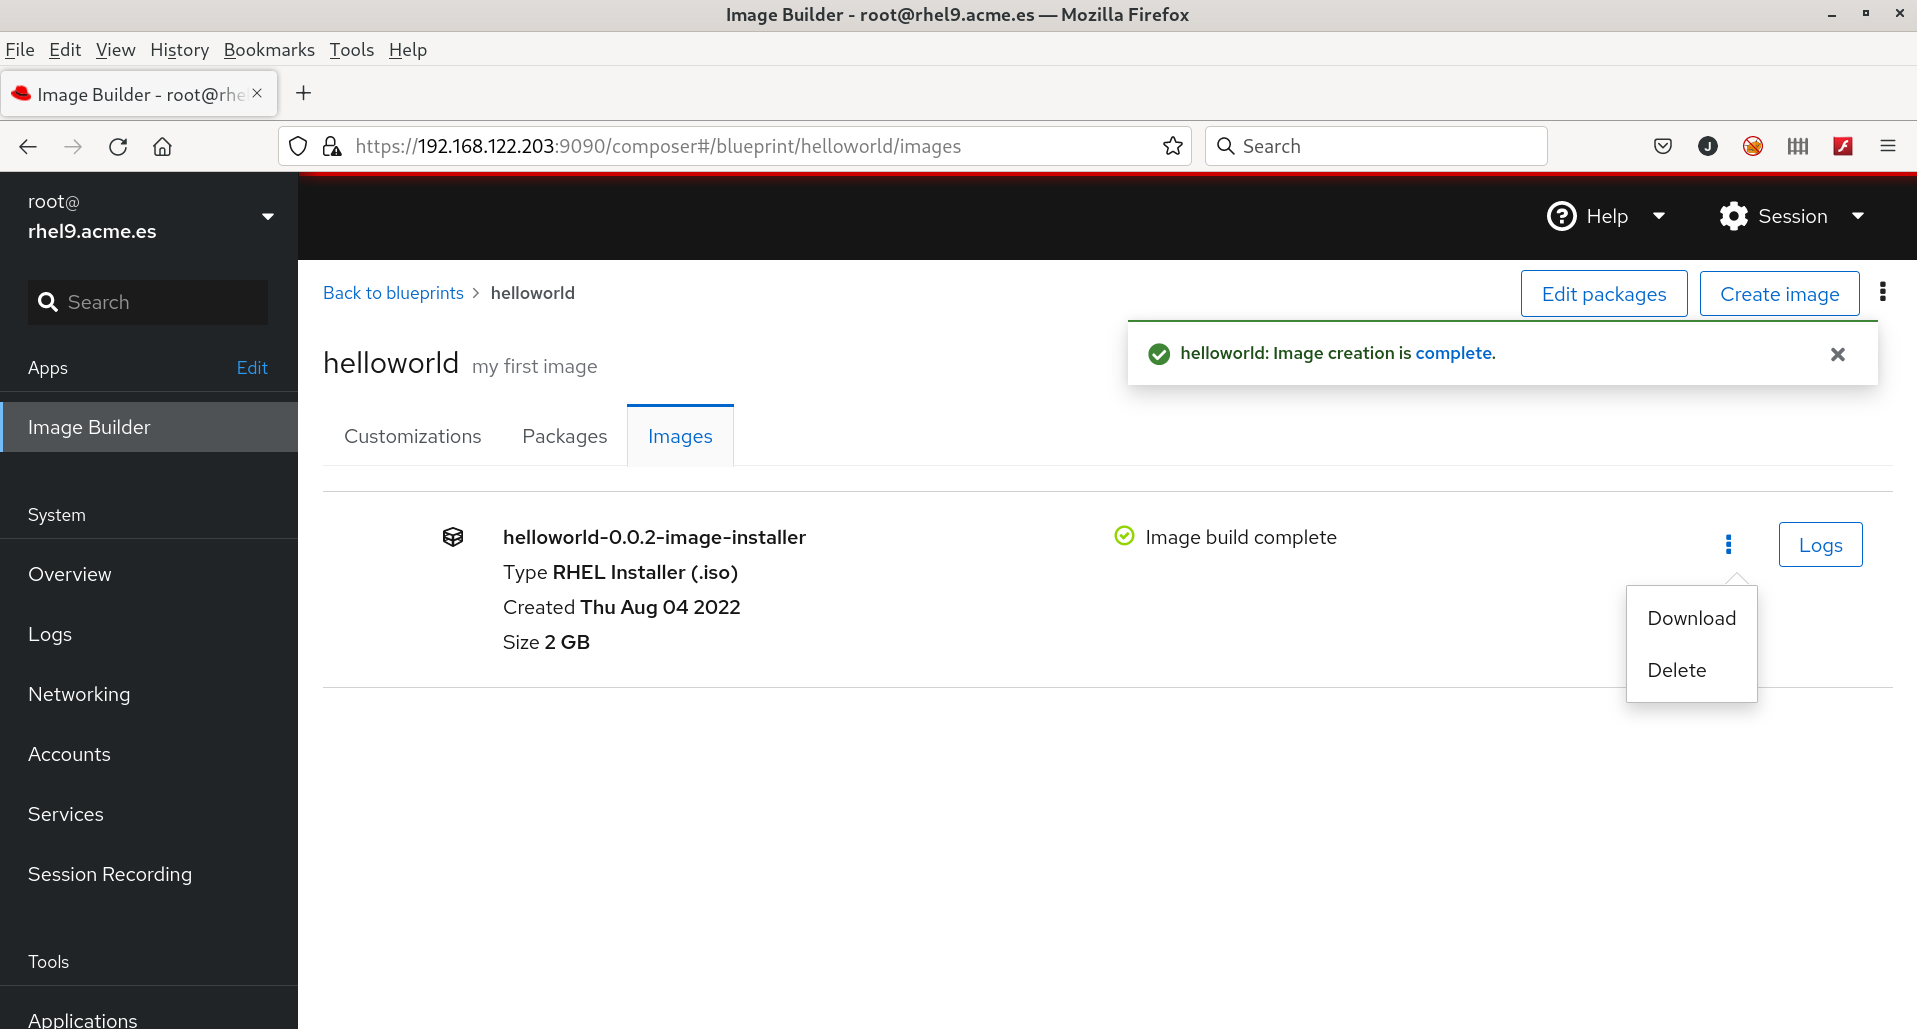
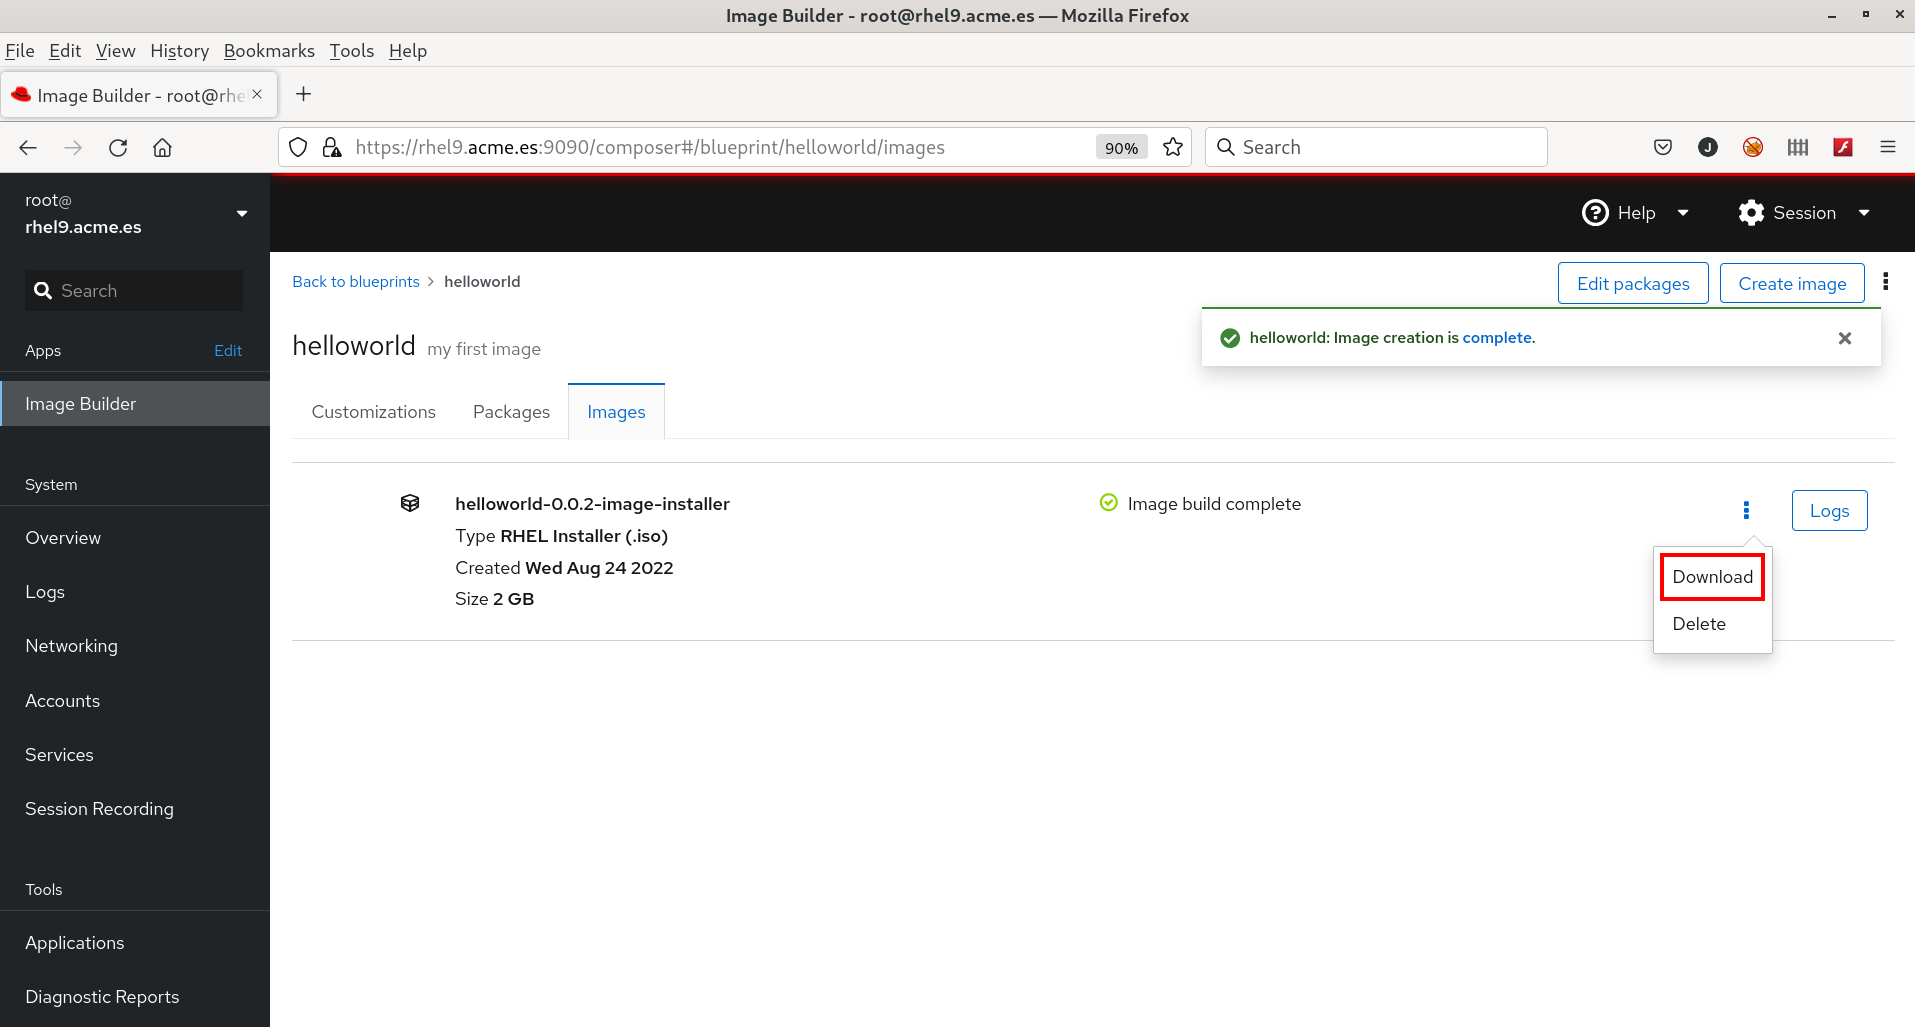
[CI] Publish Documentation for 7d6f88c3ca54dc51634669baff456fcc448a648c - 7d6f88c3ca54dc51634669baff456fcc448a648c 🚀

diff --git a/workshops-rhel9/06-edge-builder.html b/workshops-rhel9/06-edge-builder.html
@@ -197,7 +197,22 @@
 </div>
 <div class="sect2">
 <h3 id="_using_an_iso_image_to_deploy_the_image"><a class="anchor" href="#_using_an_iso_image_to_deploy_the_image"></a>Using an ISO image to deploy the image</h3>
-
+<div class="paragraph">
+<p>Once the blueprint has been created we need to create an image for the blueprint, in this case:</p>
+</div>
+<div class="imageblock unresolved">
+<div class="content">
+<img src="cockpit/11-create-blueprint.png" alt="11 create blueprint">
+</div>
+</div>
+<div class="paragraph">
+<p>Once the image build has finished we can download the ISO file:</p>
+</div>
+<div class="imageblock unresolved">
+<div class="content">
+<img src="cockpit/14-create-blueprint.png" alt="14 create blueprint">
+</div>
+</div>
 </div>
 <div class="sect2">
 <h3 id="_deploying_a_commited_image"><a class="anchor" href="#_deploying_a_commited_image"></a>Deploying a commited image</h3>
